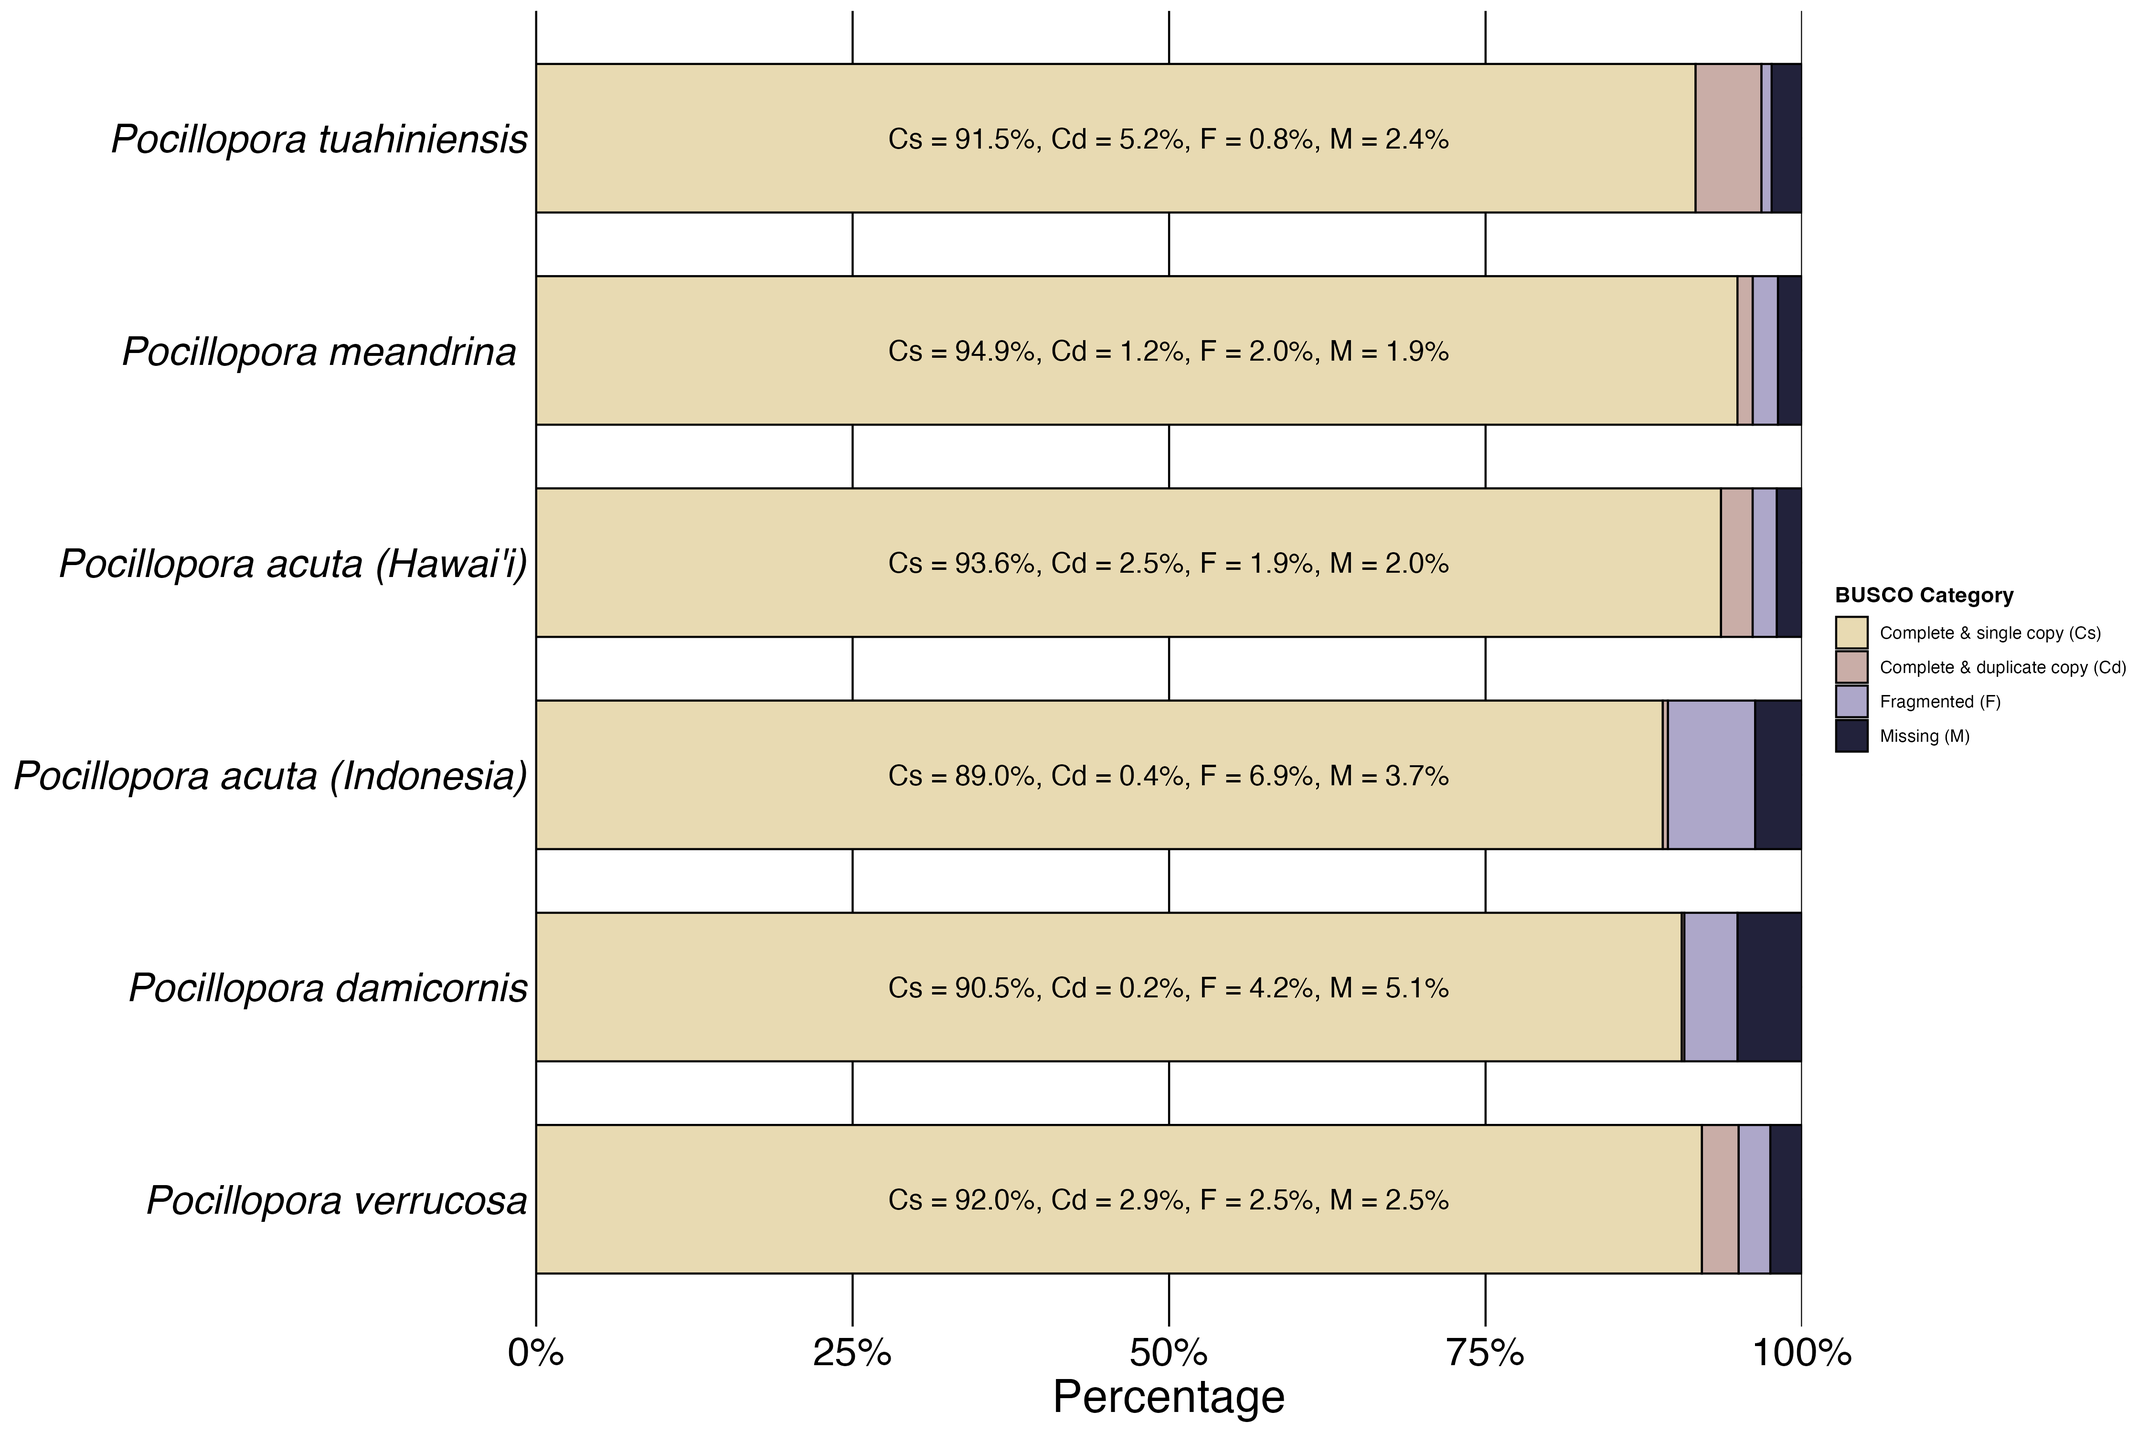
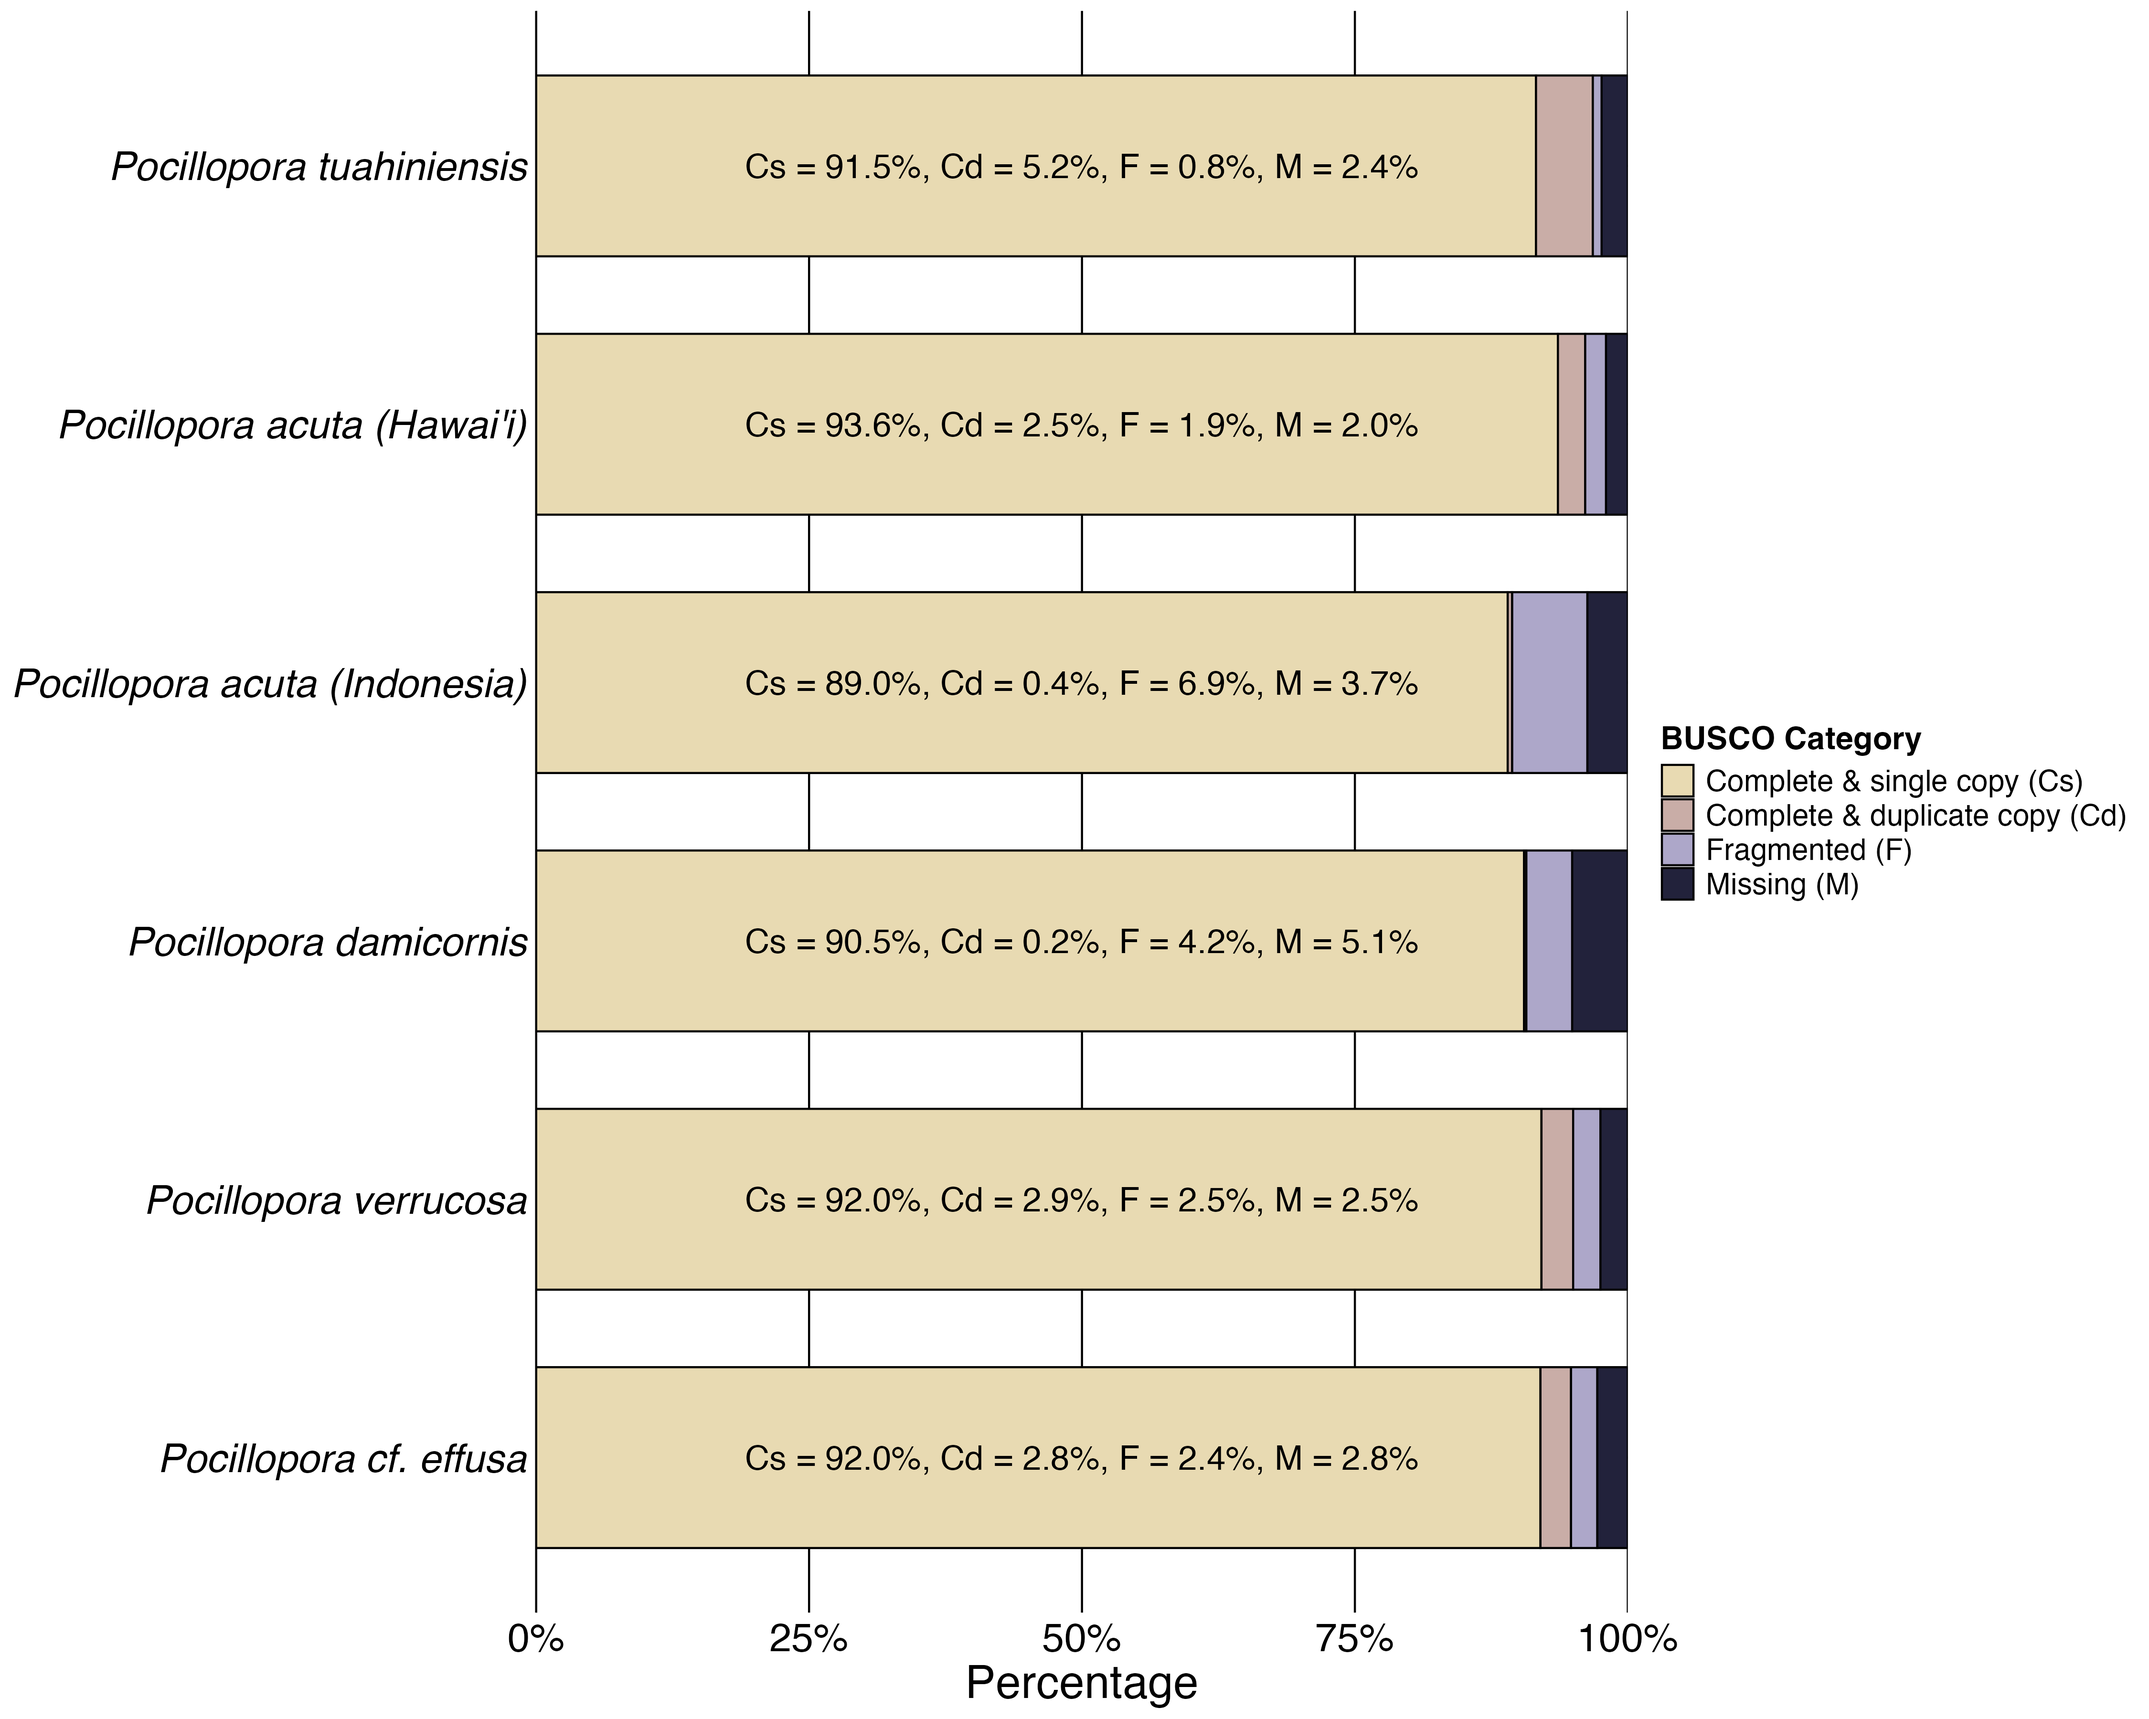
lots of stuff

diff --git a/genome_assembly_working_notes.md b/genome_assembly_working_notes.md
@@ -1921,9 +1921,42 @@ awk '$3 == "rRNA"' Ptua_rRNA.gff3 | wc -l
 
 122 rRNAs identified. 
 
-CAT GFF3 TOGETHER 
+Cat gff3s together for full structural annotation. `nano cat_gff3.sh`
 
-## funannotate for functional annotation
+```
+#!/usr/bin/env bash
+#SBATCH --export=NONE
+#SBATCH --nodes=1 
+#SBATCH --ntasks=1
+#SBATCH --cpus-per-task=24         
+#SBATCH --partition=gpu
+#SBATCH -G 1
+#SBATCH --no-requeue
+#SBATCH --mem=100GB                
+#SBATCH -t 48:00:00                
+#SBATCH --mail-type=BEGIN,END,FAIL
+#SBATCH -o slurm-%j.out
+#SBATCH -e slurm-%j.error
+#SBATCH -D /scratch4/workspace/jillashey_uri_edu-Ptua_genome
+
+echo "Cat GFFs" $(date)
+
+cat braker3_output/braker.gff3 \
+    trnascan_output/Ptua-tRNA.gff3 \
+    barrnap_output/Ptua_rRNA.gff3 \
+    > Pocillopora_tuahiniensis_genome_v1.0.master.gff3
+    
+echo "Cat complete" $(date)
+``` 
+
+Submitted batch job 61906099
+
+Uploaded genome to NCBI
+- BioProject: PRJNA1496434
+- Biosample: SAMN61716200
+- Locus tag prefixes: AC51O9
+
+## functional annotation
 
 Eggnog. `nano eggnog.sh`
 
@@ -1967,6 +2000,67 @@ echo "EggNOG-mapper analysis completed at:" $(date)
 ```
 
 Submitted batch job 61884709
+
+Run interproscan. `nano interproscan.sh`
+
+```
+#!/usr/bin/env bash
+#SBATCH --export=NONE
+#SBATCH --nodes=1 
+#SBATCH --ntasks=1
+#SBATCH --cpus-per-task=24         
+#SBATCH --partition=gpu
+#SBATCH -G 1
+#SBATCH --no-requeue
+#SBATCH --mem=100GB                
+#SBATCH -t 120:00:00                
+#SBATCH --mail-type=BEGIN,END,FAIL
+#SBATCH -o slurm-%j.out
+#SBATCH -e slurm-%j.error
+#SBATCH -D /scratch4/workspace/jillashey_uri_edu-Ptua_genome
+
+echo "Starting InterProScan analysis at:" $(date)
+
+# Load modules
+module load uri/main
+module load all/InterProScan/5.73-104.0-foss-2024a
+
+# Remove asterisks 
+sed 's/\*//g' /scratch4/workspace/jillashey_uri_edu-Ptua_genome/braker3_output/braker.aa > /scratch4/workspace/jillashey_uri_edu-Ptua_genome/braker3_output/braker_clean.aa
+
+# Define paths
+PROT_FASTA="/scratch4/workspace/jillashey_uri_edu-Ptua_genome/braker3_output/braker_clean.aa"
+OUT_DIR="/scratch4/workspace/jillashey_uri_edu-Ptua_genome/func_anno"
+
+#mkdir -p ${OUT_DIR}
+
+# Run interproscan
+interproscan.sh \
+    -i ${PROT_FASTA} \
+    -b ${OUT_DIR}/Ptua_iprscan \
+    -f XML \
+    -goterms \
+    -pa \
+    -cpu ${SLURM_CPUS_PER_TASK}
+
+echo "InterProScan analysis completed at:" $(date)
+```
+
+Submitted batch job 61905140 
+
+Install funannotate and blobtools 
+
+```
+module load conda/latest 
+#conda activate base
+
+# (Specifying Python 3.8 ensures compatibility with all funannotate dependencies)
+conda create -p /work/pi_hputnam_uri_edu/conda/envs/funannotate -c conda-forge -c bioconda funannotate python=3.8 -y
+
+conda create -p /work/pi_hputnam_uri_edu/conda/envs/blobtools -c conda-forge -c bioconda blobtoolkit firefox geckodriver -y
+```
+
+
 
 
 

diff --git a/README.md b/README.md
@@ -137,9 +137,28 @@ Run [BRAKER3](https://github.com/Gaius-Augustus/BRAKER) with protein sequences a
 
 Identify tRNAs in the assembled genome with [tRNAscan-SE](https://github.com/UCSC-LoweLab/tRNAscan-SE). This can be run while braker3 is also running. 
 
-### [`31_barrnap.sh`](https://github.com/hputnam/Ptuahiniensis_genome/blob/main/bash_scripts/30_trnascan.sh)
+### [`31_barrnap.sh`](https://github.com/hputnam/Ptuahiniensis_genome/blob/main/bash_scripts/31_barrnap.sh)
 
 Identify rRNAs in the assembled genome with [barrnap](https://github.com/tseemann/barrnap). This can be run while braker3 is also running. 
 
+### [`32_cat_gff3.sh`](https://github.com/hputnam/Ptuahiniensis_genome/blob/main/bash_scripts/32_cat_gff3.sh)
 
+Cat the gene, tRNA, and rRNA gff3s together into one master gff3. 
+
+### [`33_eggnog.sh`](https://github.com/hputnam/Ptuahiniensis_genome/blob/main/bash_scripts/33_eggnog.sh)
+
+Use [eggnog](https://github.com/eggnogdb/eggnog-mapper) to perform functional annotation on the predicted proteins.
+
+### [`34_interproscan.sh`](https://github.com/hputnam/Ptuahiniensis_genome/blob/main/bash_scripts/34_interproscan.sh)
+
+Use [InterProScan](https://github.com/ebi-pf-team/interproscan) to perform functional annotation on the predicted proteins.
+
+
+
+
+35 -- setup funannotate 
+
+36 -- funannotate merge 
+
+37 -- blobtools 
 
